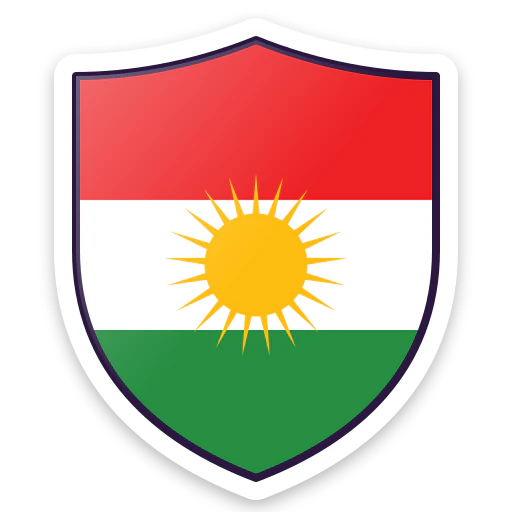
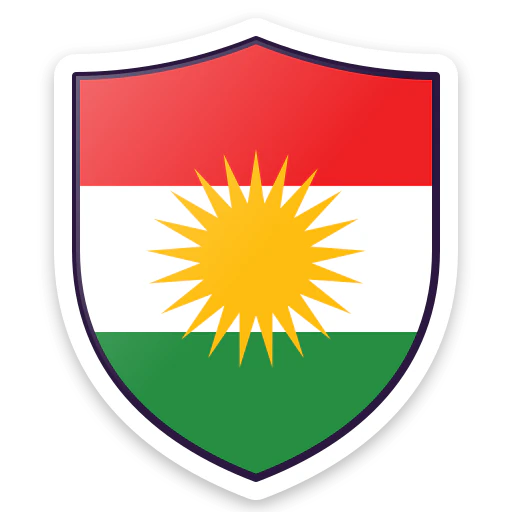
The flag of Kurdistan as it is: a sun half as tall as the flag
Every flag the app draws now follows the flag itself. The sun of twenty-one
rays stands in the middle, half as tall as the flag, its rays reaching into
the red and the green and notched half way in, one ray straight up; the red,
white, green and gold are the flag's own. That is the flag on the road's gate,
school and city wall, in the chapter banners and the book, in the Impostor
game, on the Kurdistan sticker and in the photo filter.

Claude-Session: https://claude.ai/code/session_011eKY4xnopr5UAa1vaHj4wo

Changed region(s): [[0.1562, 0.3125, 0.8438, 0.7188]]

diff --git a/shared/src/art/valley.ts b/shared/src/art/valley.ts
@@ -432,22 +432,24 @@ export interface ValleyLandmark {
  * The flag's colours, softened to sit in the painting but true enough that it cannot be mistaken for another flag, with
  * each band a step darker where the cloth folds away from the light.
  */
+// The flag's own colours, with a shade of each for the fold.
 const FLAG = {
-  red: '#dc3a32',
-  redShade: '#b42d27',
-  white: '#fbf9f3',
-  whiteShade: '#dcd7cb',
-  green: '#2f9247',
-  greenShade: '#237238',
-  sun: '#f6b821',
+  red: '#ed2024',
+  redShade: '#c0191c',
+  white: '#ffffff',
+  whiteShade: '#dedad2',
+  green: '#278e43',
+  greenShade: '#1e6f34',
+  sun: '#febd11',
 } as const;
 
 type Cubic = readonly [Pt, Pt, Pt, Pt];
 
 /**
  * The flag of Kurdistan as the school flies it, on a 20 × 16 canvas with the pole along the left edge: equal bands of
- * red, white and green with the golden sun of twenty-one rays (one straight up) in the white. The cloth is 2:3. `top`
- * is its upper edge from pole to free end, one easy wave; every band follows it.
+ * red, white and green, and in the middle the golden sun of twenty-one rays (one straight up), half as tall as the
+ * flag, its rays reaching into the red and the green. The cloth is 2:3. `top` is its upper edge from pole to free end,
+ * one easy wave; every band follows it.
  */
 export const KURDISTAN_FLAG = {
   w: 20,
@@ -483,7 +485,10 @@ function cloth(edge: Cubic, from: number, to: number): string {
   return `M${at(a, from)}C${at(b, from)} ${at(c, from)} ${at(d, from)}L${at(d, to)}C${at(c, to)} ${at(b, to)} ${at(a, to)}Z`;
 }
 
-/** The sun's centre and size: in the middle of the white, halfway along the cloth, its rays almost reaching the red and green. */
+/**
+ * The sun's centre and size: in the middle of the cloth, the tips of its rays a quarter of the cloth's depth out and the
+ * notches between them half as far, as on the flag itself.
+ */
 export function kurdistanSun(): { x: number; y: number; r: number; disc: number } {
   const { top, depth } = KURDISTAN_FLAG;
   const middle = (top[0][0] + top[3][0]) / 2;
@@ -494,13 +499,13 @@ export function kurdistanSun(): { x: number; y: number; r: number; disc: number 
     if (cubicAt(top, t)[0] < middle) lo = t;
     else hi = t;
   }
-  const r = (depth / 3) * 0.47;
-  return { x: middle, y: cubicAt(top, lo)[1] + depth / 2, r, disc: r * 0.56 };
+  const r = depth / 4;
+  return { x: middle, y: cubicAt(top, lo)[1] + depth / 2, r, disc: r * 0.51 };
 }
 
 /**
  * The flag of Kurdistan (`KURDISTAN_FLAG`) painted flat on its own canvas: the three bands, one shaded fold toward the
- * free end, and the sun clear of the fold. The school draws it at rest and the apps lay the same cloth over it to move
+ * free end, and the sun over them. The school draws it at rest and the apps lay the same cloth over it to move
  * in the wind (`pathLoopSvg`), so the two always match.
  */
 export function kurdistanFlag(dark: boolean): string {

diff --git a/shared/src/art/valley.test.ts b/shared/src/art/valley.test.ts
@@ -142,7 +142,7 @@ describe('the school’s flag', () => {
     }
   });
 
-  it('has the golden sun of twenty-one rays in the middle of the white, one ray standing straight up', () => {
+  it('has the golden sun of twenty-one rays in the middle, half as tall as the flag, one ray standing straight up', () => {
     for (const dark of [false, true]) {
       const flag = kurdistanFlag(dark);
       const sun = /<g transform="translate\(([\d.]+) ([\d.]+)\) scale\(0\.1\)"><path d="([^"]+)" fill="(#[0-9a-f]{6})"\/><\/g>/.exec(flag);
@@ -150,20 +150,20 @@ describe('the school’s flag', () => {
       const [r, g, b] = rgb(sun![4]!);
       expect(r).toBeGreaterThan(g);
       expect(g).toBeGreaterThan(2 * b);
-      // Its points go out to a ray tip and back to the disc between rays, twenty-one times round.
+      // Its points go out to a ray tip and back to a notch half as far, twenty-one times round.
+      const middle = kurdistanSun();
       const pts = points(sun![3]!);
-      const far = pts.map(([x, y]) => Math.hypot(x, y));
-      const tips = far.filter((d) => d > 15);
+      const far = pts.map(([x, y]) => Math.hypot(x, y) / 10);
+      const tips = far.filter((d) => d > middle.r * 0.75);
+      const notches = far.filter((d) => d <= middle.r * 0.75);
       expect(pts).toHaveLength(42);
       expect(tips).toHaveLength(KURDISTAN_FLAG.rays);
-      expect(Math.max(...far.filter((d) => d <= 15))).toBeLessThan(Math.min(...tips) * 0.7);
+      expect(Math.max(...notches)).toBeCloseTo(middle.r * 0.51, 1);
       expect(pts[0]![0]).toBeCloseTo(0, 0);
       expect(pts[0]![1]).toBeLessThan(0);
-      // It sits halfway along the cloth in the middle of the white, its rays clear of the red and green.
-      const middle = kurdistanSun();
+      // It sits halfway along the cloth, as tall as half the flag, its rays reaching into the red and the green.
       expect(Number(sun![1])).toBeCloseTo((KURDISTAN_FLAG.top[0][0] + KURDISTAN_FLAG.top[3][0]) / 2, 0);
-      expect(2 * middle.r).toBeLessThan(KURDISTAN_FLAG.depth / 3);
-      expect(2 * middle.r).toBeGreaterThan(0.8 * (KURDISTAN_FLAG.depth / 3));
+      expect(2 * middle.r).toBeCloseTo(KURDISTAN_FLAG.depth / 2, 5);
     }
   });
 

diff --git a/shared/src/art/impostor.ts b/shared/src/art/impostor.ts
@@ -445,13 +445,15 @@ const kurdistan: Draw = (dr) => {
   fill(dr, 'M25 37C48 31 70 45 104 37V57C70 65 48 51 25 57Z', WHITE.light);
   fill(dr, 'M25 57C48 51 70 65 104 57V76C70 84 48 70 25 76Z', GREEN);
   fill(dr, 'M25 19C48 13 70 27 104 19V22C70 30 48 16 25 22Z', tint(RED, 0.3));
-  const [cx, cy] = [64, 47];
-  for (let i = 0; i < 21; i++) {
-    const a = (i * 2 * Math.PI) / 21 - Math.PI / 2;
-    const p = (r: number, da: number): string => `${n(cx + r * Math.cos(a + da))} ${n(cy + r * Math.sin(a + da))}`;
-    fill(dr, `M${p(6, -0.13)}L${p(10.5, 0)}L${p(6, 0.13)}Z`, GOLD);
+  // The sun in the middle of the cloth, half as tall as it: twenty-one rays, one straight up, notched half way in.
+  const [cx, cy, tip] = [64.5, 47.75, 14.5];
+  const points: string[] = [];
+  for (let k = 0; k < 42; k++) {
+    const a = (k * Math.PI) / 21 - Math.PI / 2;
+    const r = k % 2 === 0 ? tip : tip * 0.51;
+    points.push(`${n(cx + r * Math.cos(a))} ${n(cy + r * Math.sin(a))}`);
   }
-  dot(dr, cx, cy, 6.4, GOLD);
+  fill(dr, `M${points.join('L')}Z`, GOLD);
 };
 
 /** Şahmaran, queen of the snakes: a coiled green snake with a crown. */
